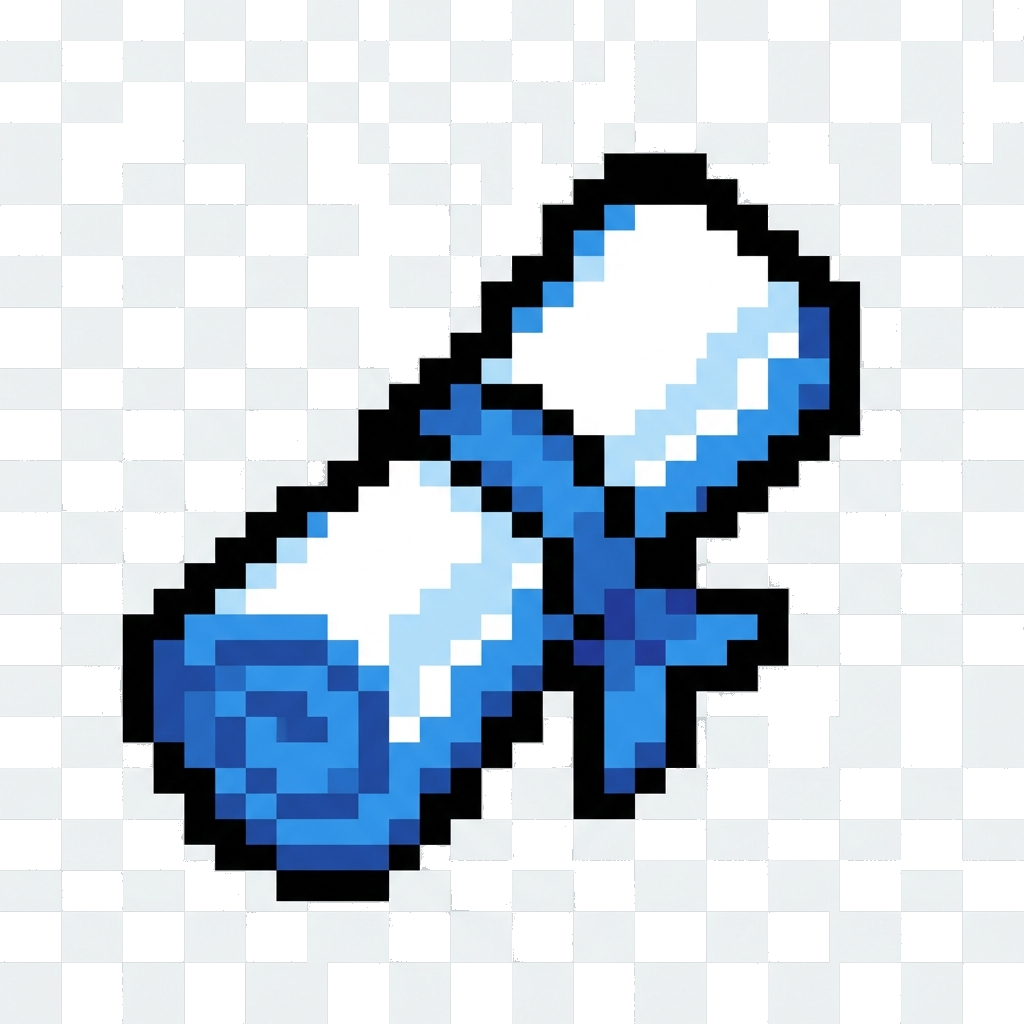
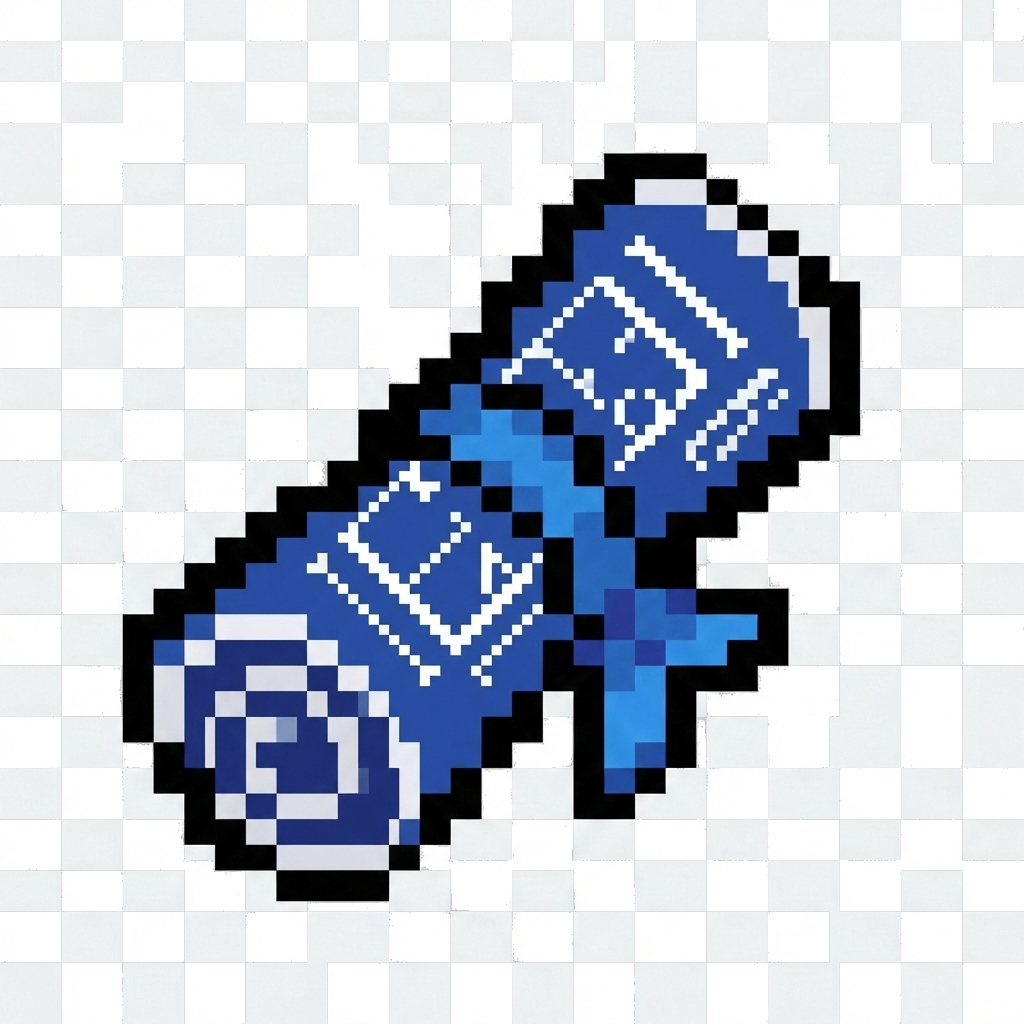
feat: implement game state management and refresh shop assets

Changed region(s): [[0.125, 0.4375, 0.5625, 0.875], [0.4688, 0.1562, 0.8125, 0.5312]]

diff --git a/src/features/shop/components/ShopScreen.tsx b/src/features/shop/components/ShopScreen.tsx
@@ -224,8 +224,8 @@ const ShopScreen: React.FC<ShopScreenProps> = ({ username }) => {
         <img
           src={item.image}
           alt={item.name}
-          className="w-full h-full object-contain"
-          style={{ imageRendering: 'pixelated', mixBlendMode: 'multiply' }}
+          className="w-full h-full object-contain mix-blend-multiply"
+          style={{ imageRendering: 'pixelated' }}
         />
       );
     }
@@ -325,7 +325,7 @@ const ShopScreen: React.FC<ShopScreenProps> = ({ username }) => {
                       </div>
                     )}
 
-                    <div className="flex-1 flex flex-col items-center text-center mb-3">
+                    <div className="flex-1 flex flex-col items-center text-center mb-3 min-h-0">
                       <div
                         role="button"
                         tabIndex={0}
@@ -334,16 +334,16 @@ const ShopScreen: React.FC<ShopScreenProps> = ({ username }) => {
                             setFlavorModal(item);
                           }
                         }}
-                        className={`w-16 h-16 rounded-2xl mb-3 flex items-center justify-center text-3xl relative overflow-hidden shrink-0 ${activeTab === 'titles' ? 'cursor-pointer hover:scale-105 transition-transform shadow-md' : 'shadow-sm'} bg-slate-100 dark:bg-slate-700`}
+                        className={`w-16 h-16 rounded-2xl mb-3 flex items-center justify-center text-3xl relative overflow-hidden shrink-0 ${activeTab === 'titles' ? 'cursor-pointer hover:scale-105 transition-transform shadow-md' : ''}`}
                         style={{ imageRendering: 'pixelated' }}
                       >
                         {renderItemIcon(item)}
                       </div>
 
-                      <h3 className="font-bold text-sm leading-tight font-inter mb-1 min-h-[1.25em]">
+                      <h3 className="font-bold text-sm leading-tight font-inter mb-1.5 min-h-[1.25em]">
                         {t(item.name || '') || item.name}
                       </h3>
-                      <p className="text-xs opacity-60 line-clamp-2 font-inter leading-relaxed h-[2.5em]">
+                      <p className="text-xs opacity-60 font-inter leading-relaxed">
                         {activeTab === 'titles' && item.flavorText
                           ? `"${item.flavorText}"`
                           : t(item.description || '') || item.description}
@@ -403,7 +403,7 @@ const ShopScreen: React.FC<ShopScreenProps> = ({ username }) => {
               onClick={e => e.stopPropagation()}
             >
               <div className="text-center mb-6">
-                <div className="w-20 h-20 mx-auto bg-slate-100 dark:bg-slate-700 rounded-full flex items-center justify-center text-5xl mb-4 shadow-inner">
+                <div className="w-20 h-20 mx-auto rounded-full flex items-center justify-center text-5xl mb-4">
                   {flavorModal.prefix || flavorModal.emoji || '✨'}
                 </div>
                 <h3 className="text-xl font-bold mb-1 font-inter">

diff --git a/src/utils/__tests__/scoring.test.ts b/src/utils/__tests__/scoring.test.ts
@@ -12,30 +12,28 @@ describe('Scoring Logic (gameConfig)', () => {
   it('awards maximum points for fast answers', () => {
     // timeElapsed <= TIME_BONUS_THRESHOLD (3s) should give full bonus
     const score = calculateScore(0, true, 0);
-    // Base + max time bonus = 100 + 900 = 1000
-    const expected = GAME.POINTS.CORRECT_BASE + GAME.POINTS.TIME_BONUS_MAX;
-    expect(score).toBe(expected);
-    expect(score).toBe(1000);
+    // Scaled: (100 + 900) / 10 = 100 per question
+    expect(score).toBe(100);
   });
 
   it('reduces score based on time (linear decay)', () => {
     const fastScore = calculateScore(1, true, 0); // < 3s = max
     const slowScore = calculateScore(10, true, 0); // 10s = partial bonus
-    expect(fastScore).toBe(1000);
+    expect(fastScore).toBe(100);
     expect(slowScore).toBeLessThan(fastScore);
-    expect(slowScore).toBeGreaterThan(GAME.POINTS.CORRECT_BASE);
+    expect(slowScore).toBeGreaterThan(10); // Scaled base: 100/10 = 10
   });
 
   it('gives base score only after TIME_DECAY_RATE (20s)', () => {
     const score = calculateScore(GAME.TIME_DECAY_RATE, true, 0);
-    expect(score).toBe(GAME.POINTS.CORRECT_BASE);
+    expect(score).toBe(10); // Scaled base: 100/10 = 10
   });
 
   it('subtracts points for using hints', () => {
     const scoreWithoutHints = calculateScore(2, true, 0);
     const scoreWithHints = calculateScore(2, true, 1);
 
-    expect(scoreWithHints).toBe(scoreWithoutHints - GAME.POINTS.HINT_PENALTY);
+    expect(scoreWithHints).toBe(scoreWithoutHints - 5); // Scaled penalty: 50/10 = 5
   });
 
   it('never returns negative scores', () => {

diff --git a/src/features/profile/components/EditProfileModal.tsx b/src/features/profile/components/EditProfileModal.tsx
@@ -104,13 +104,14 @@ const EditProfileModal: React.FC<EditProfileModalProps> = ({
                         isSelected
                           ? 'border-sky-500 ring-2 ring-sky-500/30 ring-offset-2 dark:ring-offset-slate-900'
                           : 'border-transparent hover:border-slate-300 dark:hover:border-slate-600'
-                      } ${theme === 'dark' ? 'bg-slate-800' : 'bg-slate-100'}`}
+                      }`}
                     >
                       {img ? (
                         <img
                           src={img as string}
                           alt={avatar.name}
                           className="w-full h-full object-cover"
+                          style={{ imageRendering: 'pixelated', mixBlendMode: 'multiply' }}
                         />
                       ) : (
                         <span className="text-2xl">{avatar.emoji}</span> // Fallback
@@ -140,7 +141,7 @@ const EditProfileModal: React.FC<EditProfileModalProps> = ({
                         isSelected
                           ? 'border-sky-500 ring-2 ring-sky-500/30 ring-offset-2 dark:ring-offset-slate-900'
                           : 'border-transparent hover:border-slate-300 dark:hover:border-slate-600'
-                      } ${theme === 'dark' ? 'bg-slate-800' : 'bg-slate-100'}`}
+                      }`}
                     >
                       <div
                         className={`w-12 h-12 rounded-full ${frame.cssClass || ''} bg-slate-400/20`}

diff --git a/src/services/database.ts b/src/services/database.ts
@@ -593,18 +593,14 @@ export async function deleteQuest(id: number): Promise<boolean> {
 // ============================================================================
 
 export async function getActiveAnnouncements(): Promise<AnnouncementRow[]> {
-  // TEMPORARY: Date filters relaxed for debugging data persistence issues
-  // TODO: Re-enable date filters once announcements are confirmed working
-  // Original filters:
-  // const now = new Date().toISOString();
-  // .lte('publish_date', now)
-  // .or(`expiry_date.is.null,expiry_date.gte.${now}`)
+  const now = new Date().toISOString();
 
   const { data, error } = await supabase
     .from('announcements')
     .select('*')
     .eq('is_active', true)
-    // Temporarily show all announcements regardless of publish/expiry dates
+    .lte('publish_date', now)
+    .or(`expiry_date.is.null,expiry_date.gte.${now}`)
     .order('priority', { ascending: false })
     .order('publish_date', { ascending: false });
 

diff --git a/src/features/game/hooks/useGamePersistence.ts b/src/features/game/hooks/useGamePersistence.ts
@@ -36,7 +36,7 @@ const fallbackSaveScore = async (state: GameStateObject, avgTime: number): Promi
       user_id: user.uid,
       score: state.score,
       time_taken: avgTime,
-      correct_answers: state.score,
+      correct_answers: state.correct,
       question_count: state.quizStreets.length,
       platform: 'web',
       is_bonus: false,
@@ -101,7 +101,9 @@ export const useGamePersistence = () => {
                 const result = await endGame(
                   state.gameId,
                   state.score,
-                  Number(localRecord.avgTime)
+                  Number(localRecord.avgTime),
+                  state.correct,
+                  state.quizStreets.length
                 );
 
                 if (!result.success) {

diff --git a/src/services/gameService.ts b/src/services/gameService.ts
@@ -79,7 +79,9 @@ export interface EndGameResult {
 export async function endGame(
   gameId: string,
   finalScore: number,
-  finalTime: number
+  finalTime: number,
+  correctAnswers: number,
+  questionCount: number
 ): Promise<EndGameResult> {
   const sessionKey = `game:${gameId}`;
 
@@ -101,8 +103,11 @@ export async function endGame(
       user_id: session.userId || null,
       score: finalScore,
       time_taken: finalTime,
+      correct_answers: correctAnswers,
+      question_count: questionCount,
       played_at: new Date().toISOString(),
       platform: 'web',
+      is_bonus: false,
     });
 
     if (error) {

diff --git a/src/config/constants.ts b/src/config/constants.ts
@@ -37,11 +37,11 @@ export const GAME = {
   TIME_BONUS_THRESHOLD: 3, // seconds for max bonus
   TIME_DECAY_RATE: 20, // seconds after which bonus reaches 0
 
-  // Scoring
+  // Scoring (scaled to 0-100 per question, 0-1000 total for 10 questions)
   POINTS: {
-    CORRECT_BASE: 100,
-    TIME_BONUS_MAX: 900, // Max bonus for fast answers (total max: 1000)
-    HINT_PENALTY: 50,
+    CORRECT_BASE: 100, // Base points (scaled to 10 per question)
+    TIME_BONUS_MAX: 900, // Max time bonus (scaled to 90 per question)
+    HINT_PENALTY: 50, // Penalty per hint (scaled to 5 per question)
     STREAK_MULTIPLIER: 1.1,
   },
 

diff --git a/src/components/admin/AdminShop.tsx b/src/components/admin/AdminShop.tsx
@@ -138,7 +138,8 @@ const AdminShop: React.FC<AdminShopProps> = ({ items, onRefresh, notify, confirm
                     <img
                       src={item.image}
                       alt={item.name}
-                      className="w-10 h-10 object-contain rounded-md bg-slate-100 dark:bg-slate-800"
+                      className="w-10 h-10 object-contain rounded-md"
+                      style={{ imageRendering: 'pixelated', mixBlendMode: 'multiply' }}
                     />
                   ) : (
                     <span className="text-2xl">{item.emoji || '📦'}</span>

diff --git a/src/features/game/hooks/__tests__/useScoreCalculator.test.ts b/src/features/game/hooks/__tests__/useScoreCalculator.test.ts
@@ -12,8 +12,8 @@ describe('useScoreCalculator', () => {
   it('calculates score correctly via hook', () => {
     const { result } = renderHook(() => useScoreCalculator());
     const score = result.current.calculateScore(0, true, 0);
-    const expected = GAME.POINTS.CORRECT_BASE + GAME.POINTS.TIME_BONUS_MAX;
-    expect(score).toBe(expected);
+    // Scaled max: (100 + 900) / 10 = 100
+    expect(score).toBe(100);
   });
 
   it('function reference remains stable (useCallback)', () => {

diff --git a/src/config/gameConfig.ts b/src/config/gameConfig.ts
@@ -29,7 +29,10 @@ export const calculateScore = (
   // Hint penalty
   score -= hintsUsed * GAME.POINTS.HINT_PENALTY;
 
-  return Math.max(0, Math.min(1000, score));
+  // Scale from 0-1000 range to 0-100 range (10 questions × 100 = 1000 max total)
+  const scaledScore = Math.round(score / 10);
+
+  return Math.max(0, Math.min(100, scaledScore));
 };
 
 export const calculateStreakBonus = (streakDays: number): number => {
